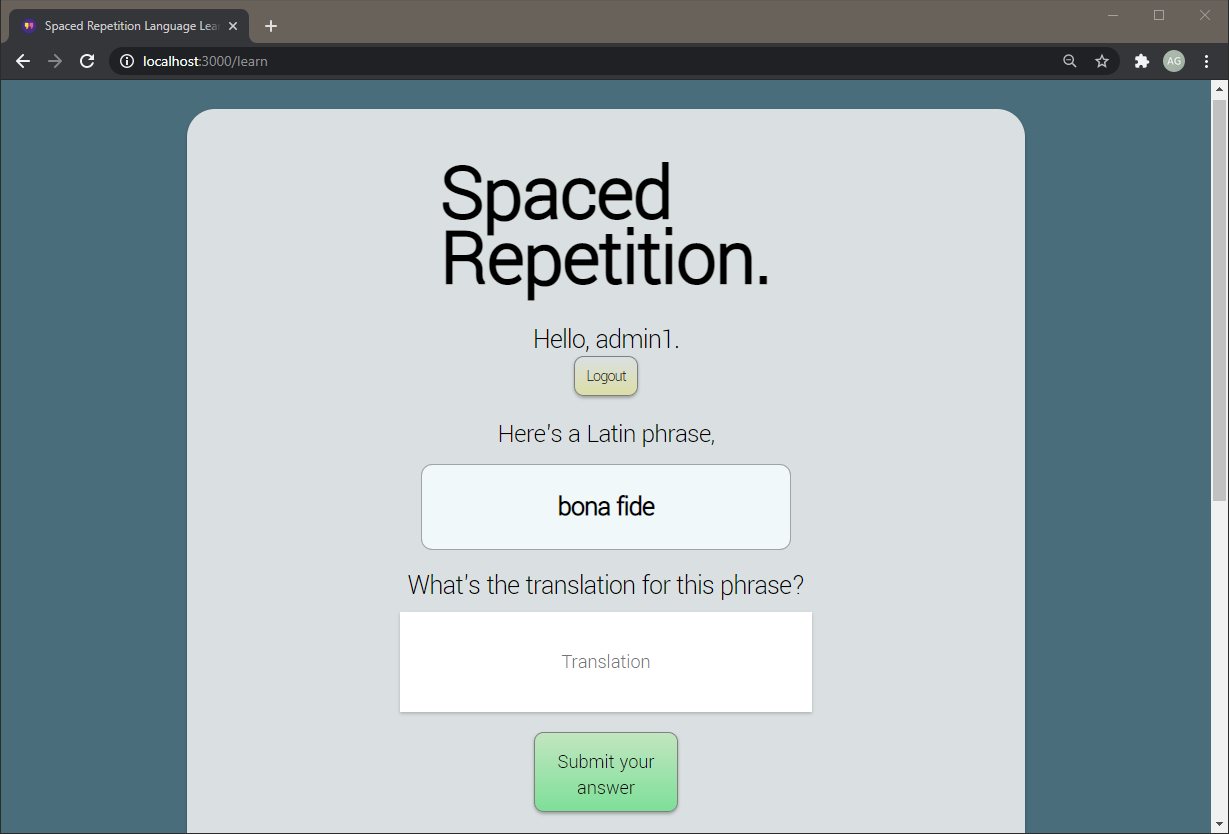
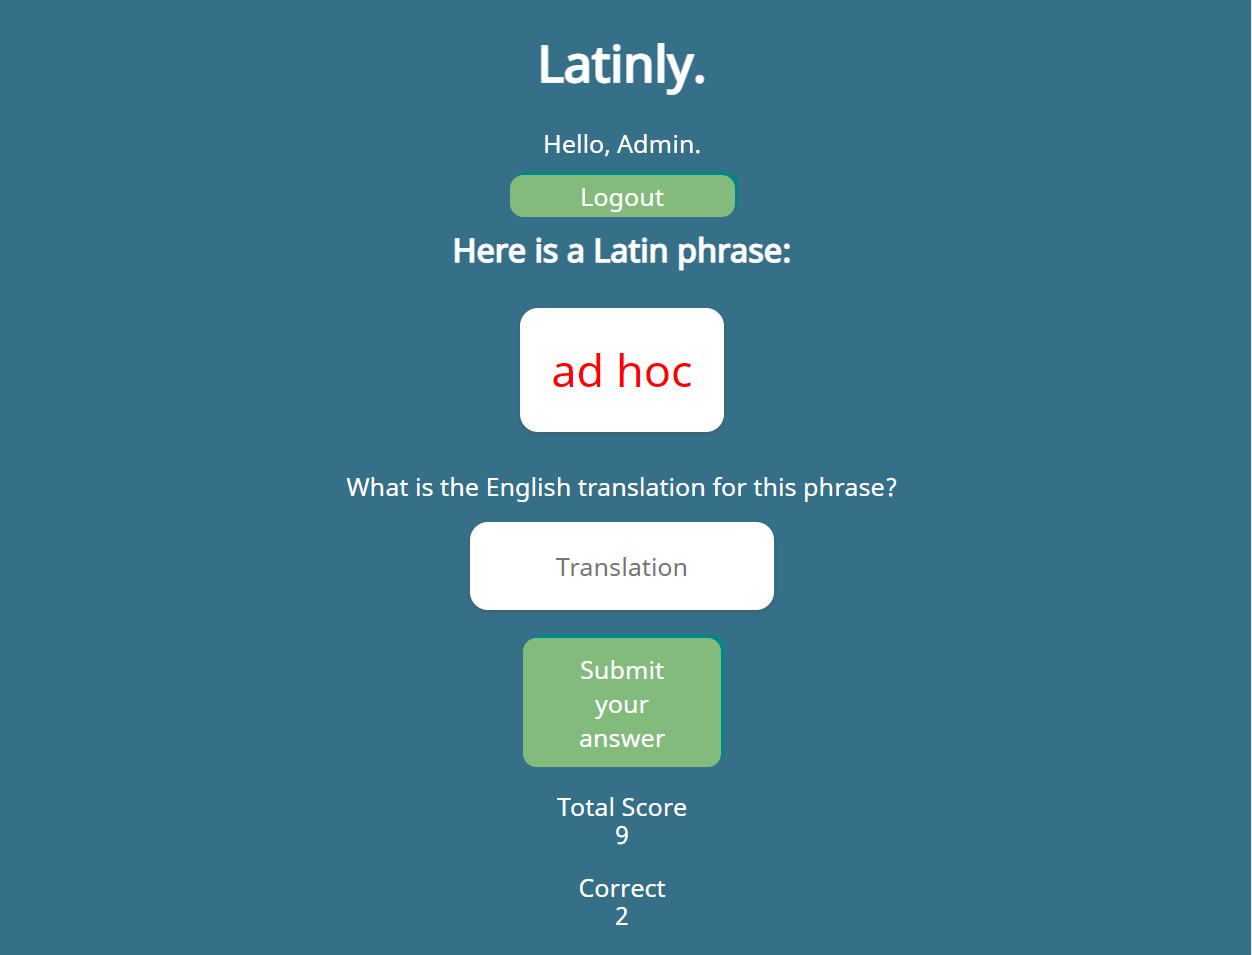
finished portfolio information

diff --git a/src/utils/resumeData.js b/src/utils/resumeData.js
@@ -13,6 +13,8 @@ import eztaskMain1 from '../assets/images/eztask.main1.png';
 import thinkboardMain1 from '../assets/images/thinkboard.main1.png';
 import pattern3 from '../assets/images/pattern3.jpg';
 import quizMain1 from '../assets/images/quiz.main1.png';
+import employeeformmain1 from '../assets/images/employeeformmain1.png';
+import petfulMain1 from '../assets/images/petful.main1.png';
 
 const resumeData = {
   name: 'Anthony Giannotti',
@@ -121,106 +123,168 @@ const resumeData = {
   },
   projects: [
     {
-      tag: 'React',
-      image: pattern3,
-      title: 'React Project 1',
-      caption: 'A short description',
-      description:
-        'words wordswords wordswords wordswords wordswords wordswords words',
-      links: [
-        { link: 'https://www.google.com', icon: <GitHubIcon /> },
-        { link: 'https://www.google.com', icon: <Language /> },
-      ],
-    },
-    {
-      tag: 'Angular',
+      tag: 'Full-Stack',
       image: foodfulMain1,
-      title: 'Angular Project 1',
-      caption: 'A short description',
+      title: 'Foodful',
+      caption: 'A platform for sharing resources within communities',
 
-      description:
-        'words wordswords wordswords wordswords wordswords wordswords words',
+      description: `This application uses React and JS with a back-end API to create update and delete posted resources.`,
       links: [
-        { link: 'https://www.google.com', icon: <GitHubIcon /> },
-        { link: 'https://www.google.com', icon: <Language /> },
+        {
+          link: 'https://github.com/agiannotti/foodful-vercel',
+          icon: <GitHubIcon />,
+        },
+        { link: 'https://foodful.agiannotti.vercel.app/', icon: <Language /> },
       ],
     },
     {
       tag: 'React',
       image: consoleMain1,
-      title: 'React Project 5',
-      caption: 'A short description',
+      title: 'Console.dev',
+      caption: 'Minimalist Code Typing Test Application',
 
       description:
-        'words wordswords wordswords wordswords wordswords wordswords words',
+        'Practice typing code snippets! This project uses JavaScript, React, and some basic string manipulation to render the color of font if it matches the text.',
       links: [
-        { link: 'https://www.google.com', icon: <GitHubIcon /> },
-        { link: 'https://www.google.com', icon: <Language /> },
+        {
+          link: 'https://github.com/agiannotti/console.dev-client',
+          icon: <GitHubIcon />,
+        },
+        { link: 'https://console-dev-client.vercel.app/', icon: <Language /> },
       ],
     },
     {
-      tag: 'React',
+      tag: 'JQuery',
       image: bookmarkedMain1,
-      title: 'React Project 1',
-      caption: 'A short description',
+      title: 'Bookmarked',
+      caption: 'Bookmark your designated websites.',
 
       description:
-        'words wordswords wordswords wordswords wordswords wordswords words',
+        'A basic JQuery application demonstrating CRUD and raw JavaScript methods and query selectors.',
       links: [
-        { link: 'https://www.google.com', icon: <GitHubIcon /> },
-        { link: 'https://www.google.com', icon: <Language /> },
+        {
+          link: 'https://github.com/agiannotti/bookmark-app',
+          icon: <GitHubIcon />,
+        },
+        {
+          link: 'https://agiannotti.github.io/bookmark-app/dist/',
+          icon: <Language />,
+        },
+      ],
+    },
+    {
+      tag: 'Full-Stack',
+      image: latinlyMain1,
+      title: 'Latinly',
+      caption: 'Learn latin phrases utilizing the spaced repetition technique.',
+
+      description:
+        'This project utilizes JWT Authentication, a from-scratch back-end API to store phrases, Cypress Testing, and JS Stack and Queue data structures to implement a spaced repetition learning technique. Track your amount of correct and incorrect answers.',
+      links: [
+        {
+          link: 'https://github.com/agiannotti/latinly-client',
+          icon: <GitHubIcon />,
+        },
+        { link: 'https://latinly.vercel.app/', icon: <Language /> },
       ],
     },
     {
       tag: 'React',
-      image: latinlyMain1,
-      title: 'React Project 2',
-      caption: 'A short description',
-
-      description:
-        'words wordswords wordswords wordswords wordswords wordswords words',
+      image: pattern3,
+      title: 'This website',
+      caption: 'Hello, Portfolio',
+      description: 'Material UI, JS, Grid, react-router-dom, firebase, vercel',
       links: [
-        { link: 'https://www.google.com', icon: <GitHubIcon /> },
-        { link: 'https://www.google.com', icon: <Language /> },
+        {
+          link: 'https://github.com/agiannotti/hello-portfolio',
+          icon: <GitHubIcon />,
+        },
+        {
+          link: 'https://github.com/agiannotti/hello-portfolio',
+          icon: <Language />,
+        },
       ],
     },
     {
       tag: 'React',
       image: eztaskMain1,
-      title: 'React Project 3',
-      caption: 'A short description',
+      title: 'Task Tracker Practice',
+      caption: 'Add and remove tasks and set reminders!',
 
-      description:
-        'words wordswords wordswords wordswords wordswords wordswords words',
+      description: 'Mat UI, React, Hooks, Form Control',
       links: [
-        { link: 'https://www.google.com', icon: <GitHubIcon /> },
-        { link: 'https://www.google.com', icon: <Language /> },
+        {
+          link: 'https://github.com/agiannotti/task-tracker',
+          icon: <GitHubIcon />,
+        },
+        { link: 'https://eztask.vercel.app/', icon: <Language /> },
       ],
     },
     {
-      tag: 'React',
+      tag: 'JQuery',
       image: quizMain1,
-      title: 'React Project 4',
-      caption: 'A short description',
+      title: 'Quiz App',
+      caption: 'A quiz app with scores!',
 
       description:
-        'words wordswords wordswords wordswords wordswords wordswords words',
+        'track your progress, and recieve feedback for correct/ incorrect answers.',
       links: [
-        { link: 'https://www.google.com', icon: <GitHubIcon /> },
-        { link: 'https://www.google.com', icon: <Language /> },
+        {
+          link: 'https://github.com/agiannotti/quiz-app',
+          icon: <GitHubIcon />,
+        },
+        { link: 'agiannotti.github.io/quiz-app/', icon: <Language /> },
+      ],
+    },
+    {
+      tag: 'Full-Stack',
+      image: petfulMain1,
+      title: 'Petful',
+      caption: 'Find your next companion!',
+
+      description:
+        'A stack and queue implementation with a timeout function to simulate waiting in line for a desired pet.',
+      links: [
+        {
+          link: 'https://github.com/agiannotti/petful-front-end',
+          icon: <GitHubIcon />,
+        },
+        { link: 'https://petful-two.vercel.app/', icon: <Language /> },
       ],
     },
     {
       tag: 'Angular',
       image: thinkboardMain1,
-      title: 'Angular Project 2',
-      caption: 'A short description',
+      title: 'Thinkboard',
+      caption:
+        'A kanban template utilizing material UIs drag and drop API. Hosted and provisioned via Firestore + Firebase',
+
+      description: '',
+      links: [
+        {
+          link: 'https://github.com/agiannotti/thinkboard-angular',
+          icon: <GitHubIcon />,
+        },
+        { link: 'https://thinkboard-d8d22.web.app/', icon: <Language /> },
+      ],
+    },
+    {
+      tag: 'React',
+      image: employeeformmain1,
+      title: 'Employee Form',
+      caption: 'Form best practices exercise',
 
       description:
-        'words wordswords wordswords wordswords wordswords wordswords words',
+        'Material UI with React and JS. Form Control, checkboxes, selects, submit, textfields, and style hooks to use shadow DOM CSS styling.',
       links: [
-        { link: 'https://www.google.com', icon: <GitHubIcon /> },
-        { link: 'https://www.google.com', icon: <Language /> },
+        {
+          link: 'https://employee-form-seven.vercel.app/',
+          icon: <GitHubIcon />,
+        },
+        {
+          link: 'https://github.com/agiannotti/react-form-practice',
+          icon: <Language />,
+        },
       ],
     },
   ],
